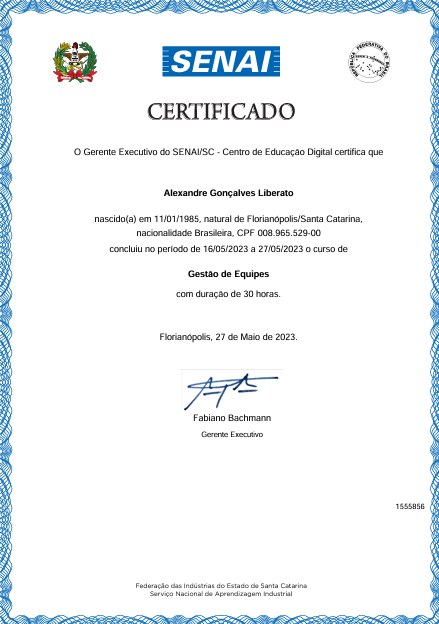
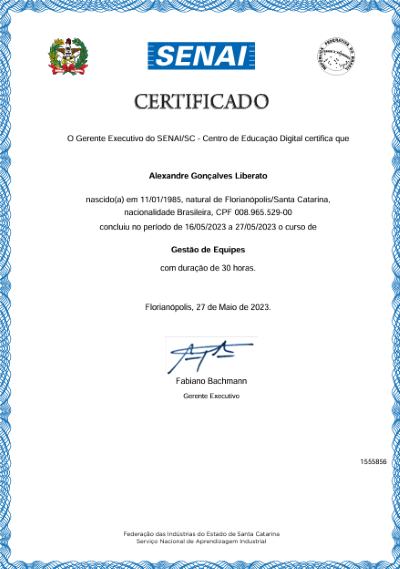
Adicionando mais um certificado, frontende 2.0

diff --git a/certificados.html b/certificados.html
@@ -93,6 +93,9 @@
               <div class="carousel-item">
                 <img src="img/c12.png" alt="Imagem" class="img-fluid" />
               </div>
+              <div class="carousel-item">
+                <img src="img/c13.png" alt="Imagem" class="img-fluid" />
+              </div>
             </div>
             <!-- Inner -->
 
